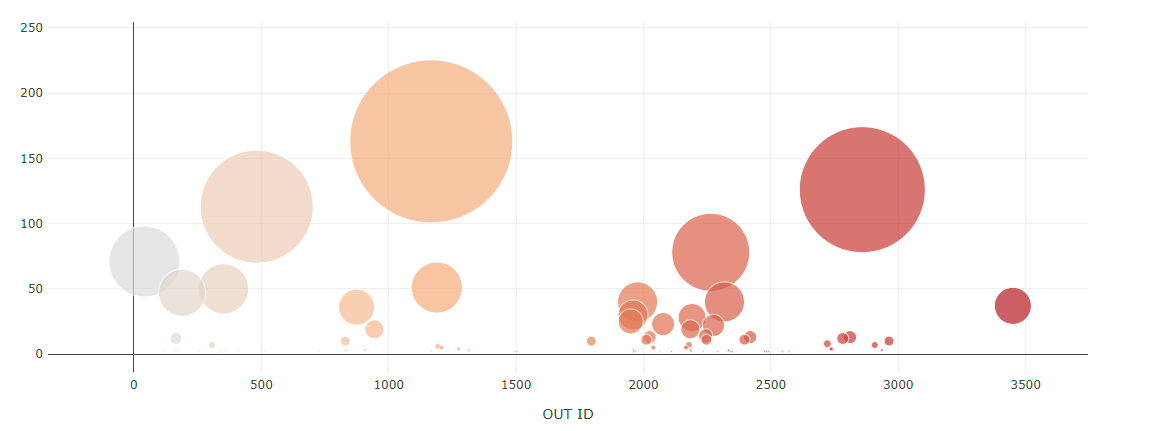
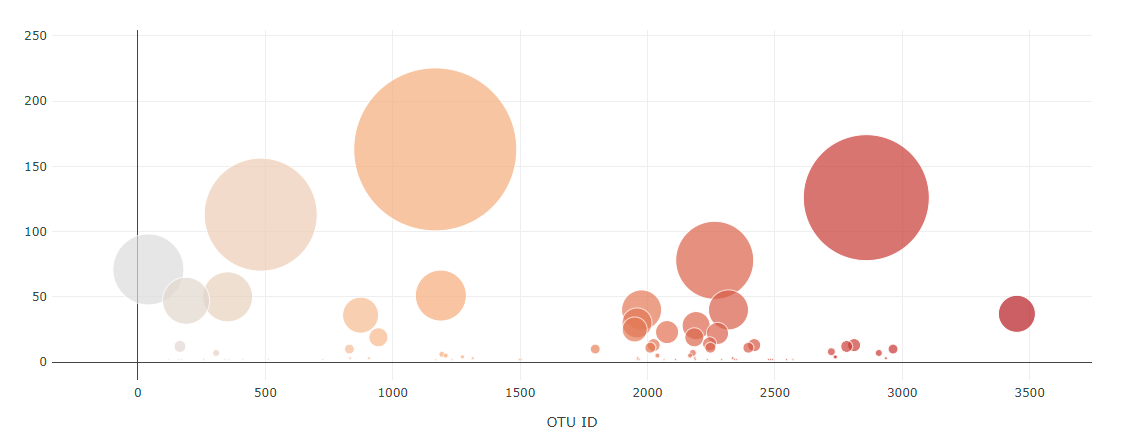
Update app.js and bubble chart xlabel

diff --git a/static/js/app.js b/static/js/app.js
@@ -94,7 +94,7 @@ function setPlots(subjectId) {
             hoverlabel: {
                 align: 'left'
             },
-            xaxis: {title: 'OUT ID'},
+            xaxis: {title: 'OTU ID'},
             margin: {
                 l: 50,
                 r: 50,
